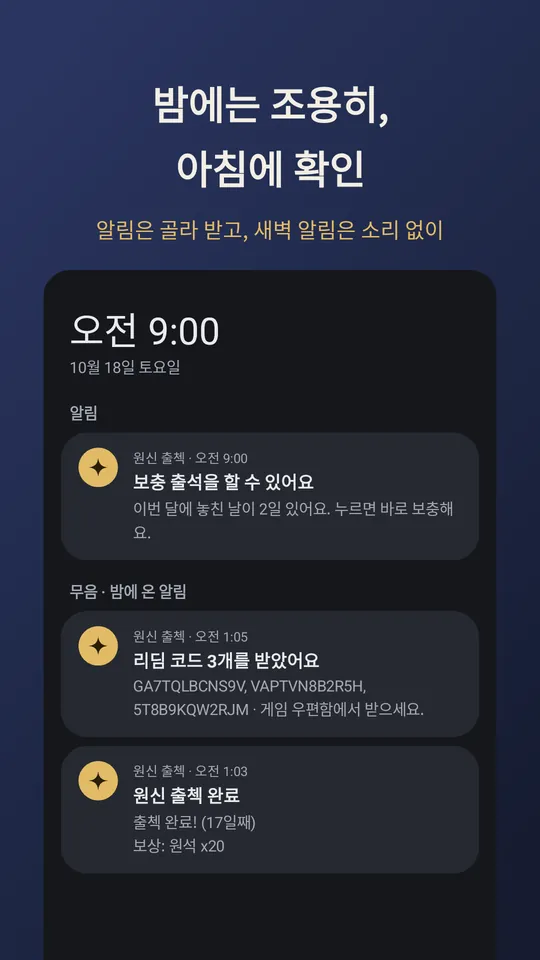
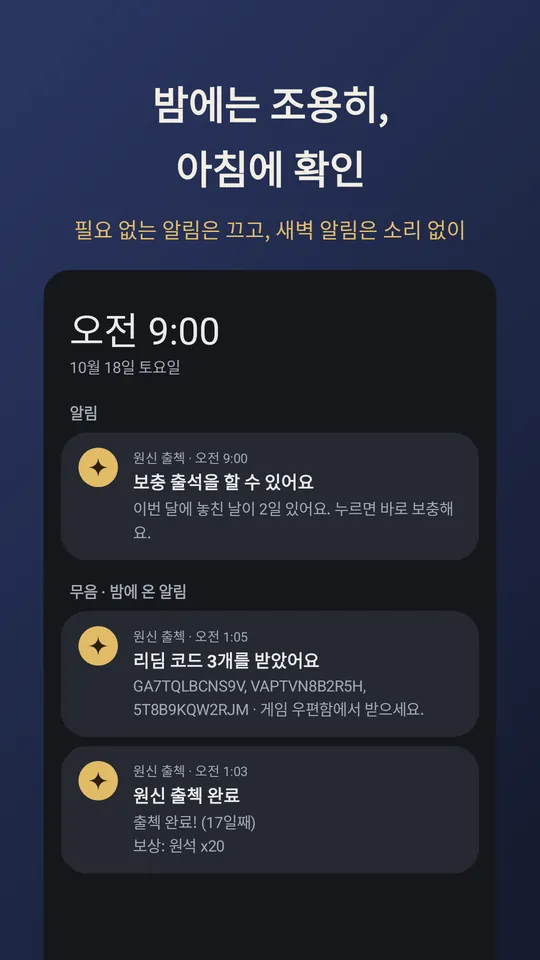
소개 페이지: 알림은 종류별로 끌 수 있다고 명시
Claude-Session: https://claude.ai/code/session_01AVkzu9p2ytMeGHejvvs68H

Changed region(s): [[0.1185, 0.2188, 0.8593, 0.25]]

diff --git a/checkin/index.html b/checkin/index.html
@@ -61,7 +61,7 @@
     <li><strong>새벽 1시 자동 출석</strong> 폰 시계가 아니라 호요랩 서버 시각에 맞춰, 날짜가 바뀐 직후에 출석해요.</li>
     <li><strong>보상 내역</strong> 이번 달 받은 원석·모라와 리딤 코드로 받은 보상의 합계를 한눈에 봐요.</li>
     <li><strong>보충 출석</strong> 놓친 날이 있으면 알려 주고, 누르면 바로 보충해요.</li>
-    <li><strong>여러 계정, 알림 골라 받기</strong> 계정을 여러 개 등록할 수 있고, 알림을 골라 받으며 밤에는 소리 없이 알려요.</li>
+    <li><strong>여러 계정, 알림 골라 받기</strong> 계정을 여러 개 등록할 수 있어요. 알림은 종류별로 끌 수 있고, 켜 둔 알림도 밤에는 소리 없이 와요.</li>
   </ul>
 
   <h2>안심하고 쓰세요</h2>
